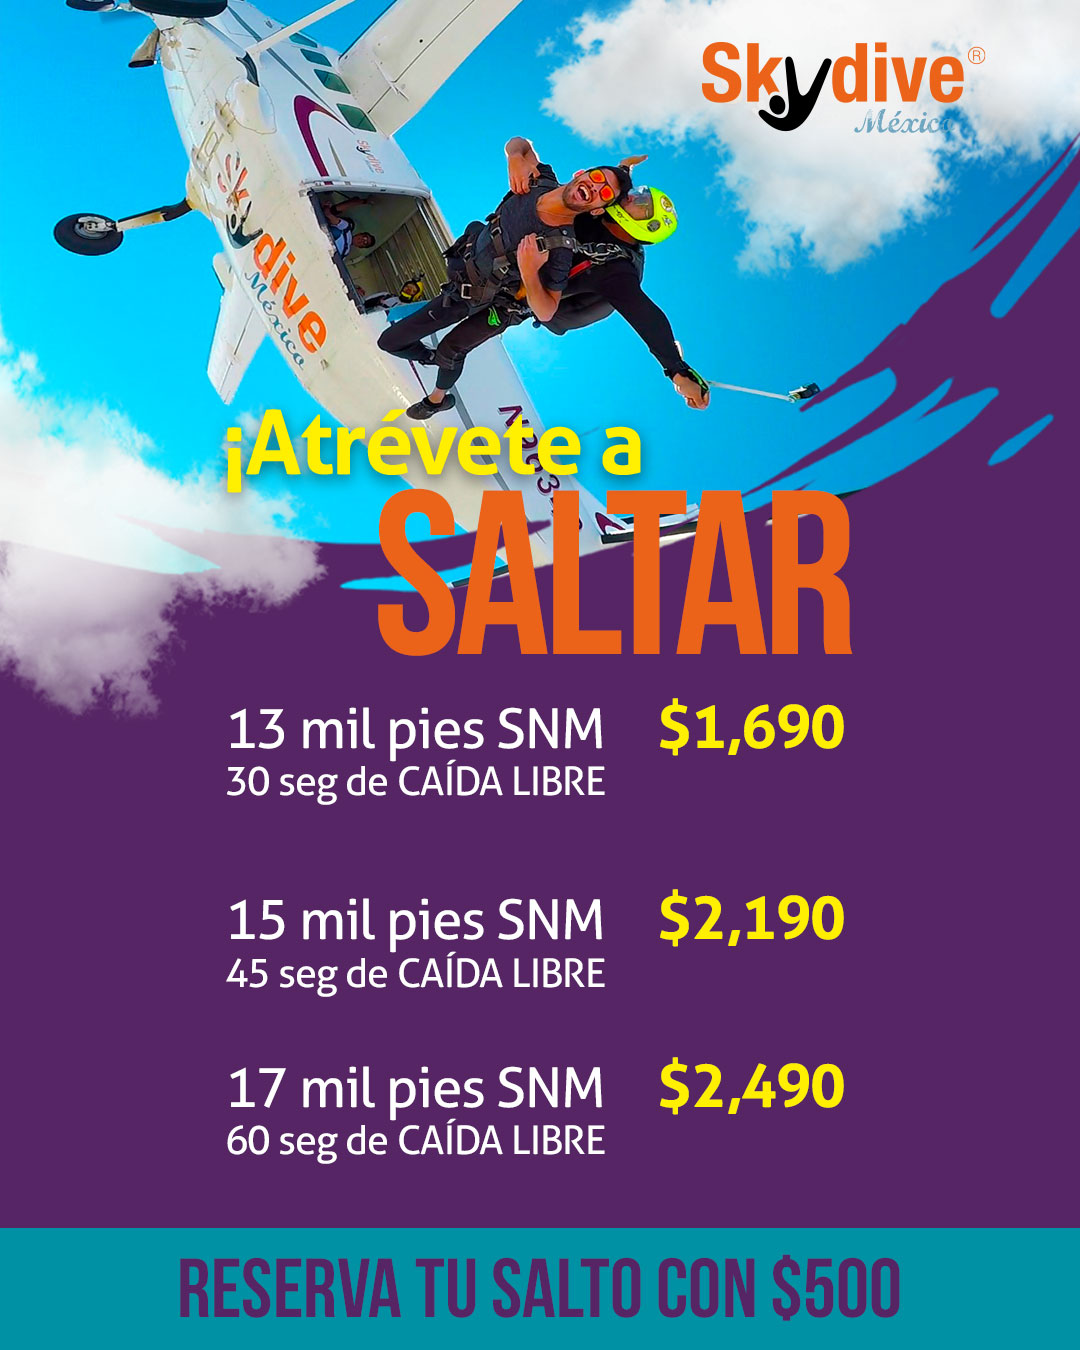
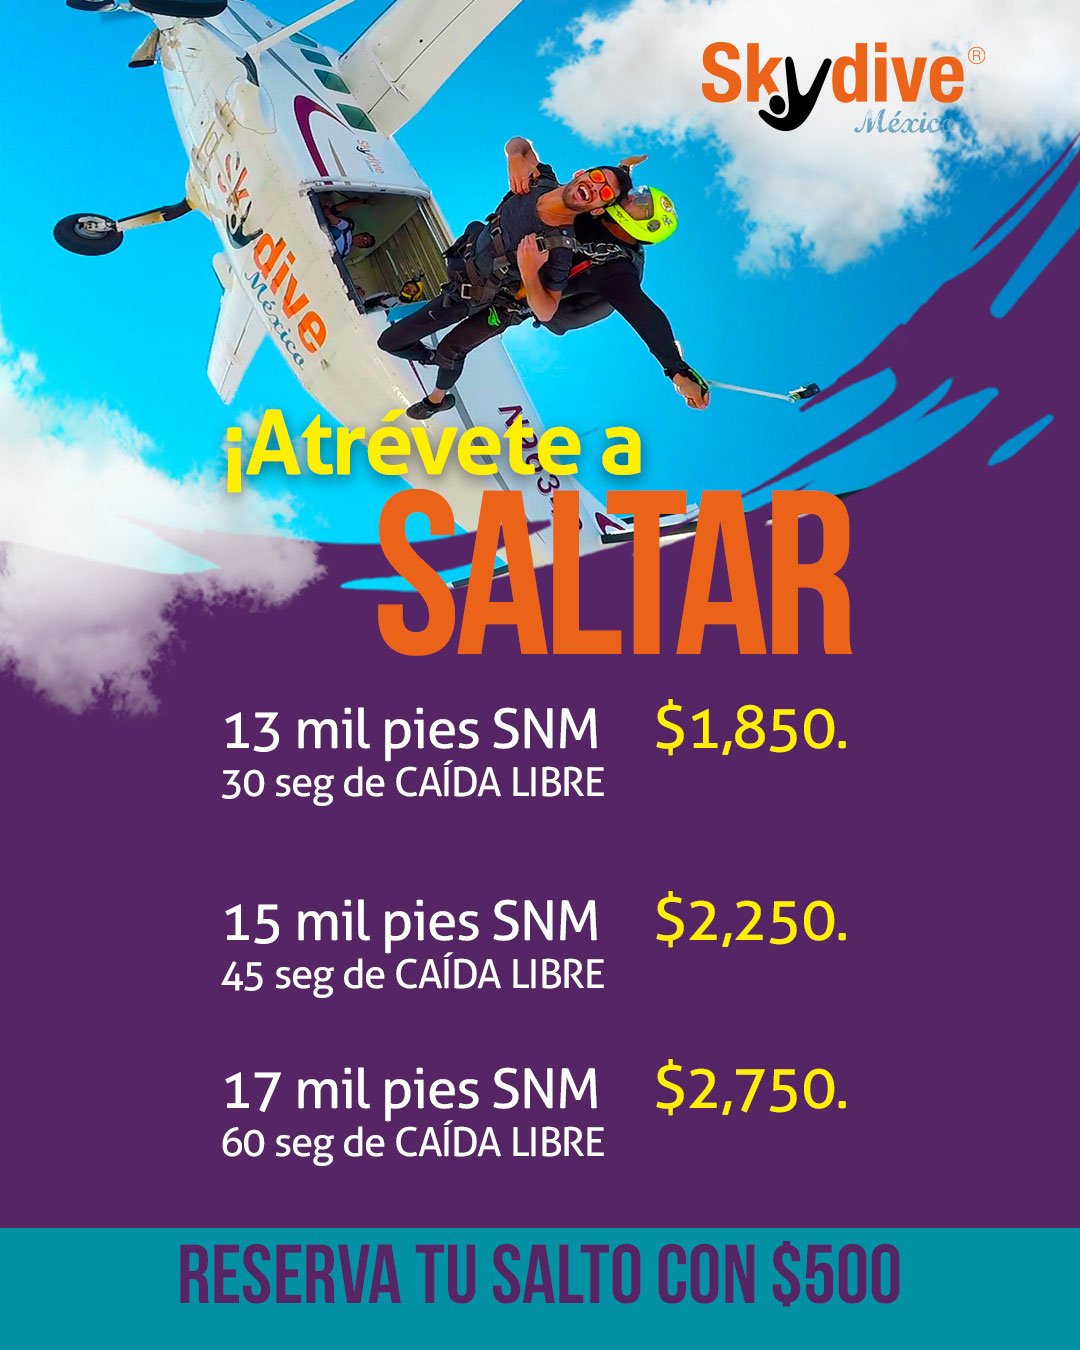
sky

diff --git a/plantillas/home.php b/plantillas/home.php
@@ -108,7 +108,7 @@ get_header();
                 <h3>
                     13 MIL<span>ft</span>
                     <span class="snm">sobre el nivel medio del mar</span>
-                    <div class="precio">$1,690</div>
+                    <div class="precio">$1,850</div>
                 </h3>
             </div>
 
@@ -125,7 +125,7 @@ get_header();
                 <h3>
                     15 MIL<span>ft</span>
                     <span class="snm">sobre el nivel medio del mar</span>
-                    <div class="precio">$2,190</div>
+                    <div class="precio">$2,250</div>
                 </h3>
             </div>
             <div class="detalles">
@@ -144,7 +144,7 @@ get_header();
                 <h3>
                     17 MIL<span>ft</span>
                     <span class="snm">sobre el nivel medio del mar</span>
-                    <div class="precio">$2,490</div>
+                    <div class="precio">$2,750</div>
                 </h3>
             </div>
             <div class="detalles">
